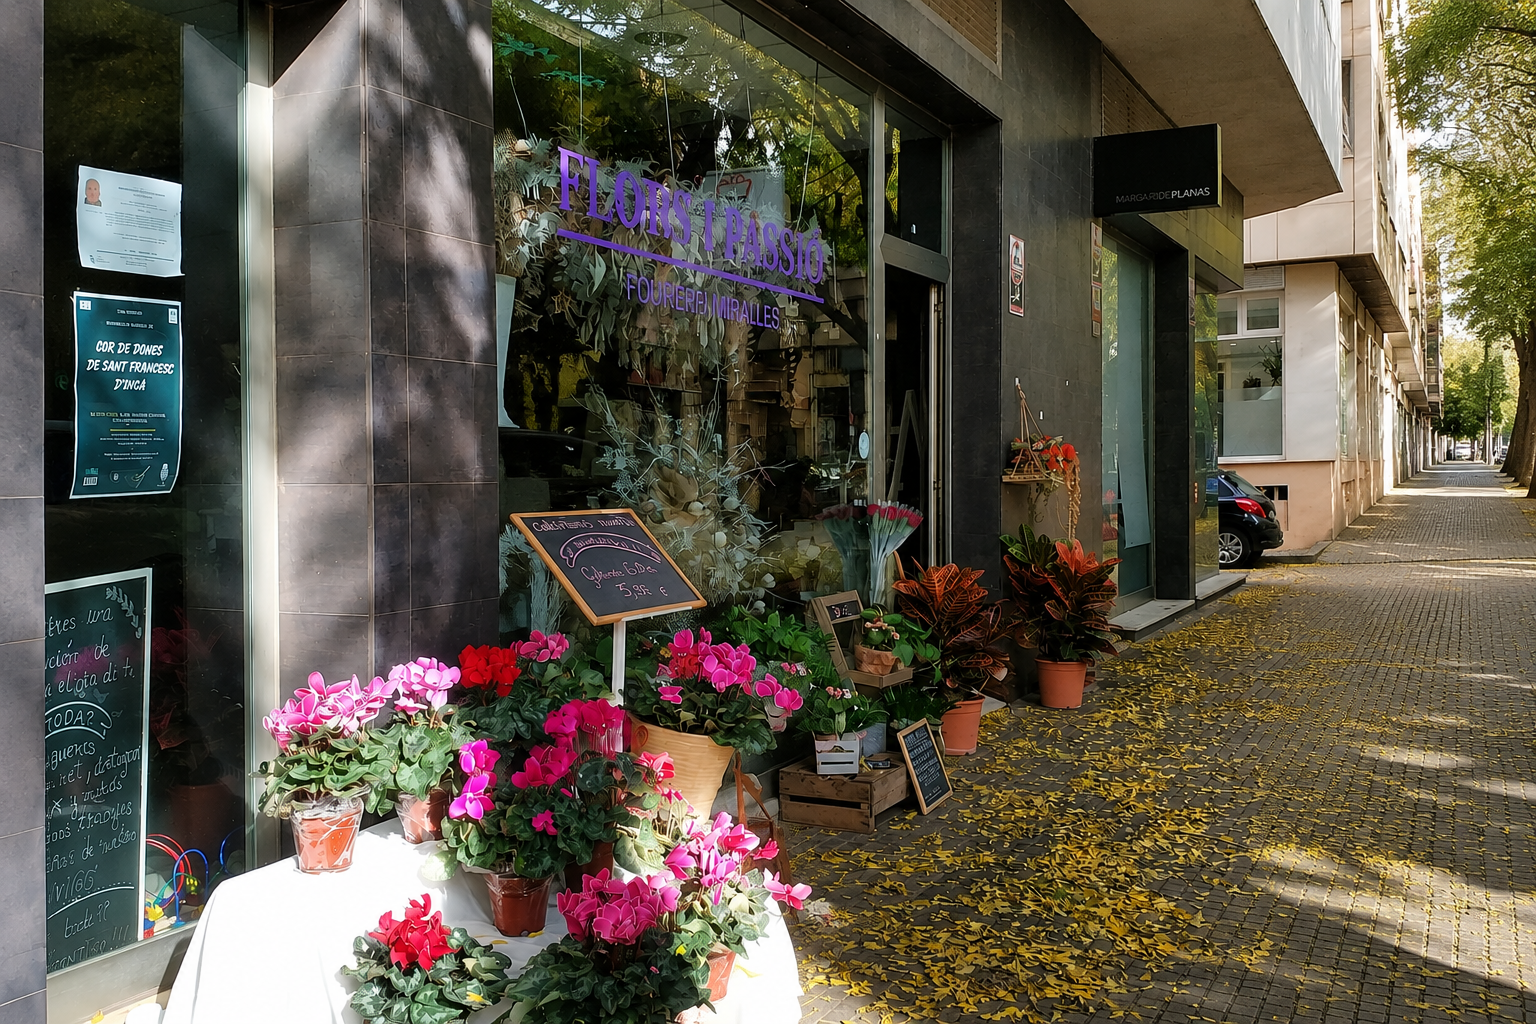
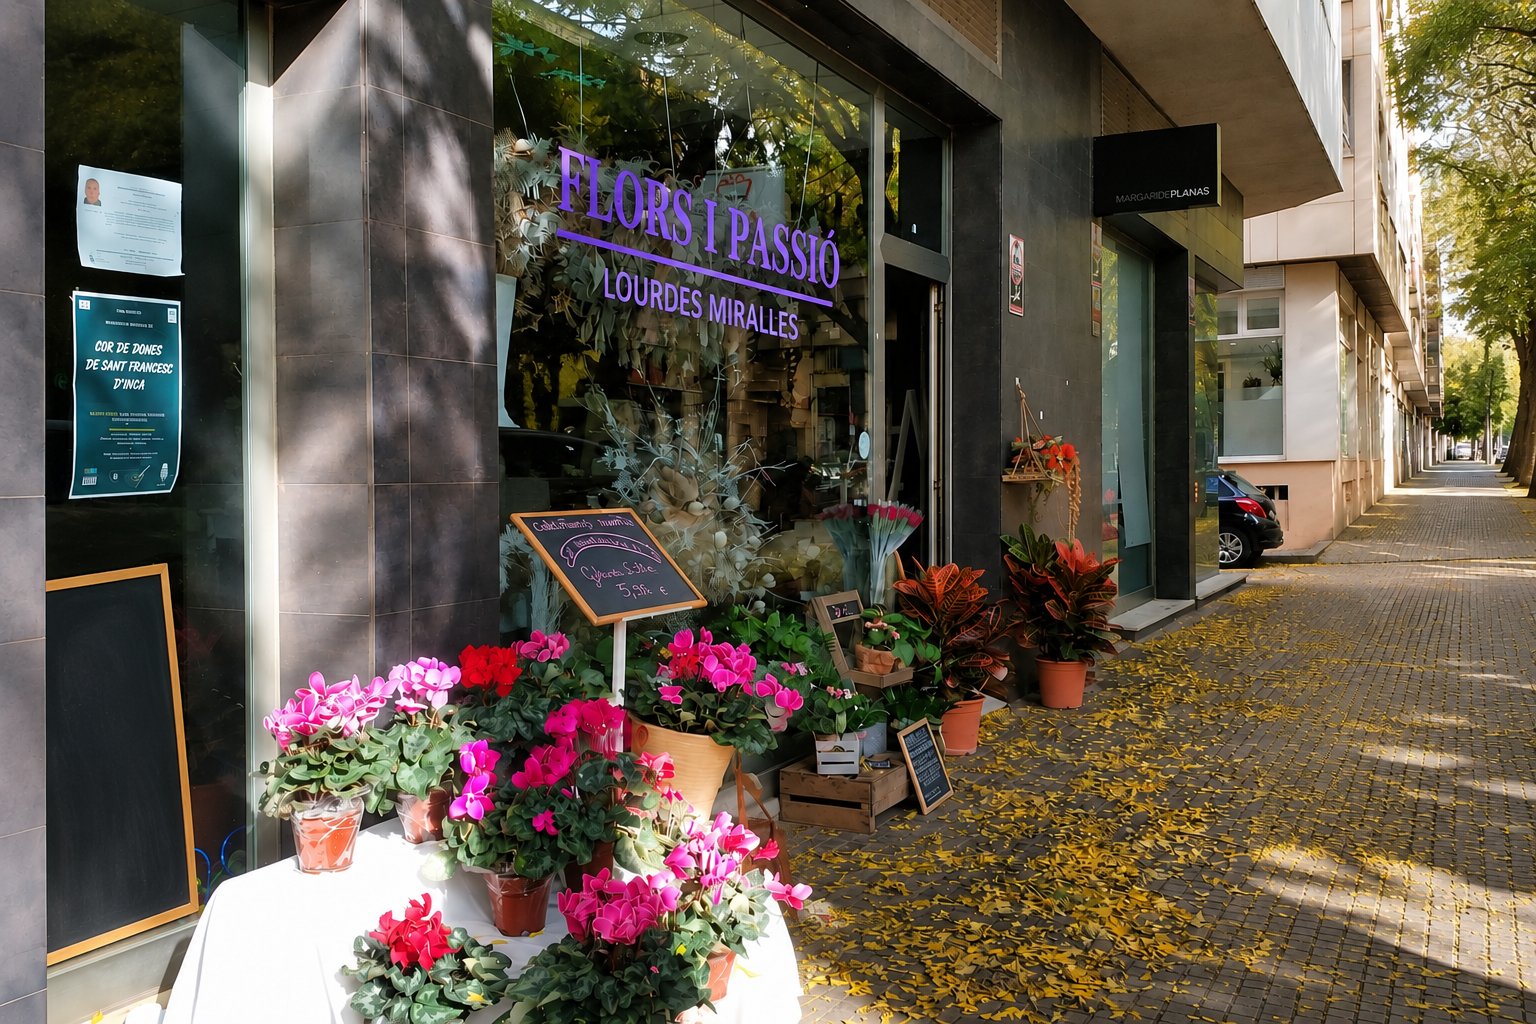
1701

diff --git a/css/sobrenosotroscss.css b/css/sobrenosotroscss.css
@@ -201,7 +201,7 @@ nav {
 .about-hero-image {
     position: absolute;
     inset: 0;
-    background-image: url("../fotos/d2459cac-59e6-4a68-8d1c-972479f25313.png");
+    background-image: url("../fotos/28390c7e-3a11-43fb-b5f8-ef135414d06e.png");
     background-size: cover;
     background-position: center;
     background-repeat: no-repeat;
